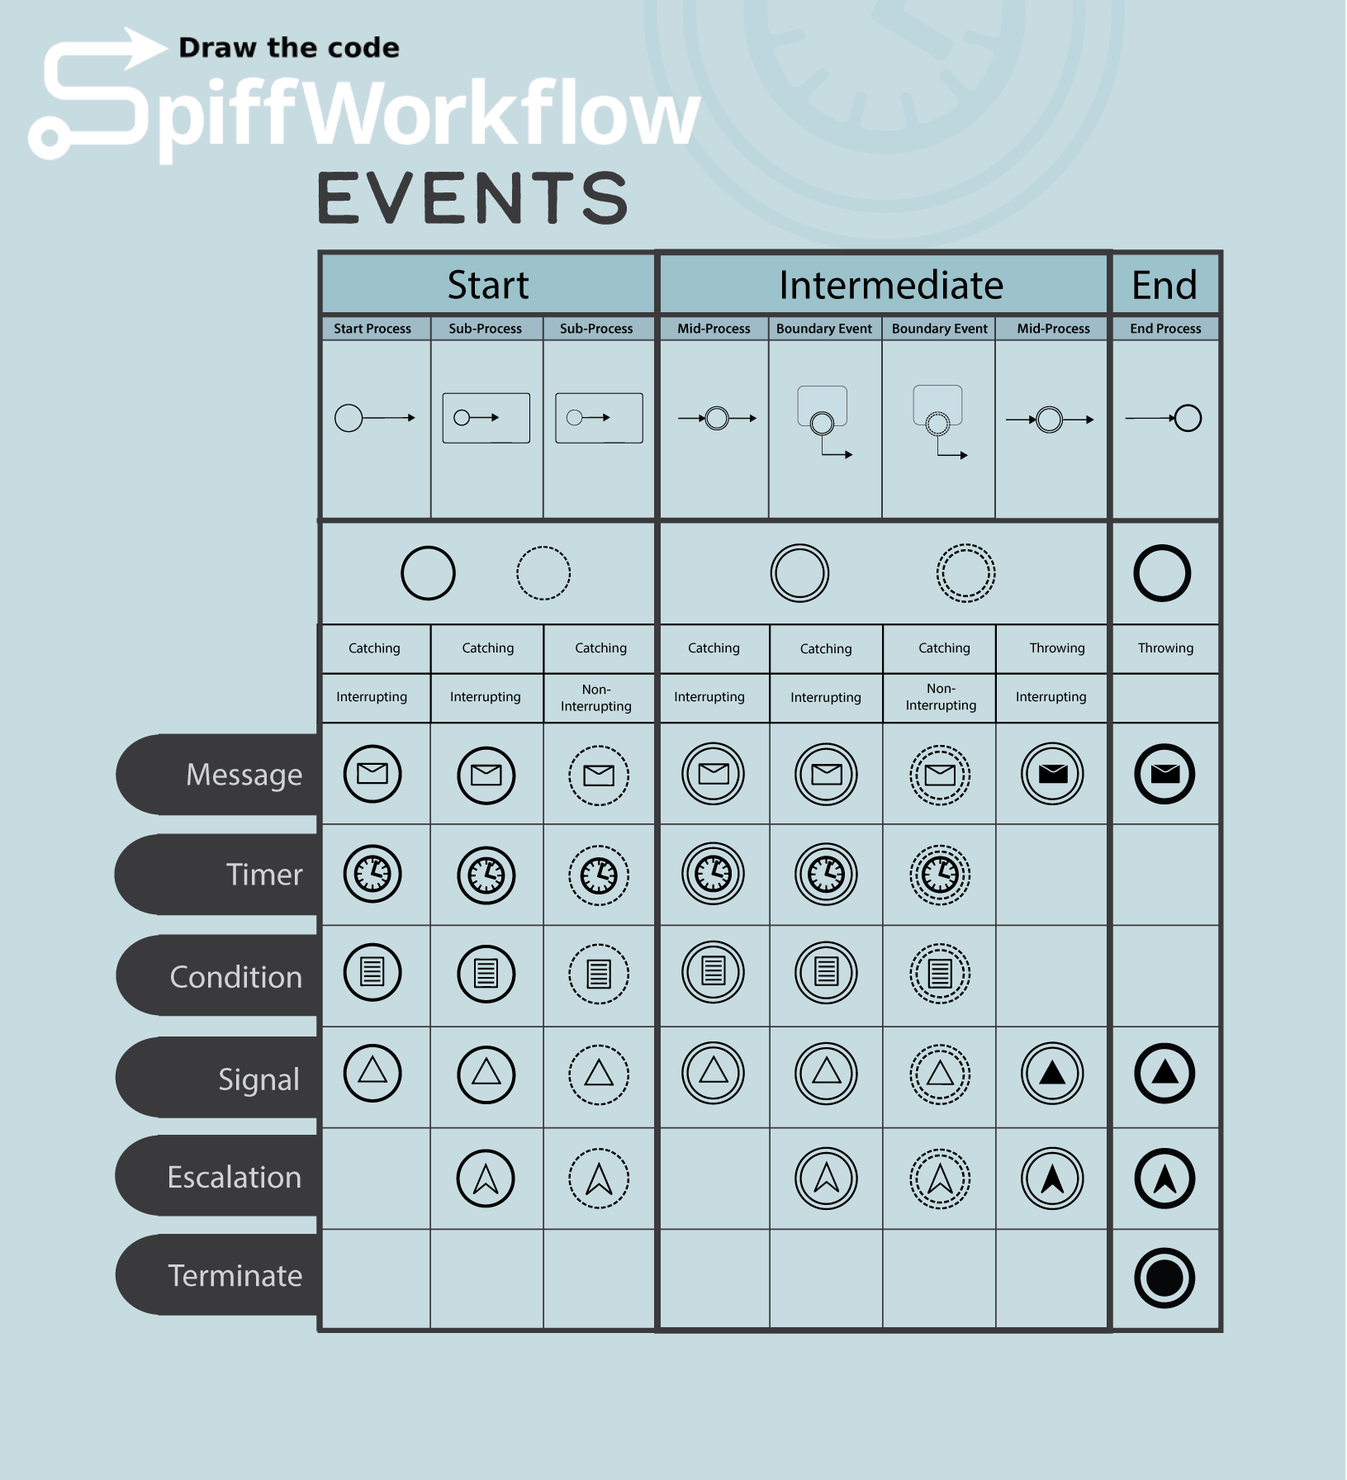
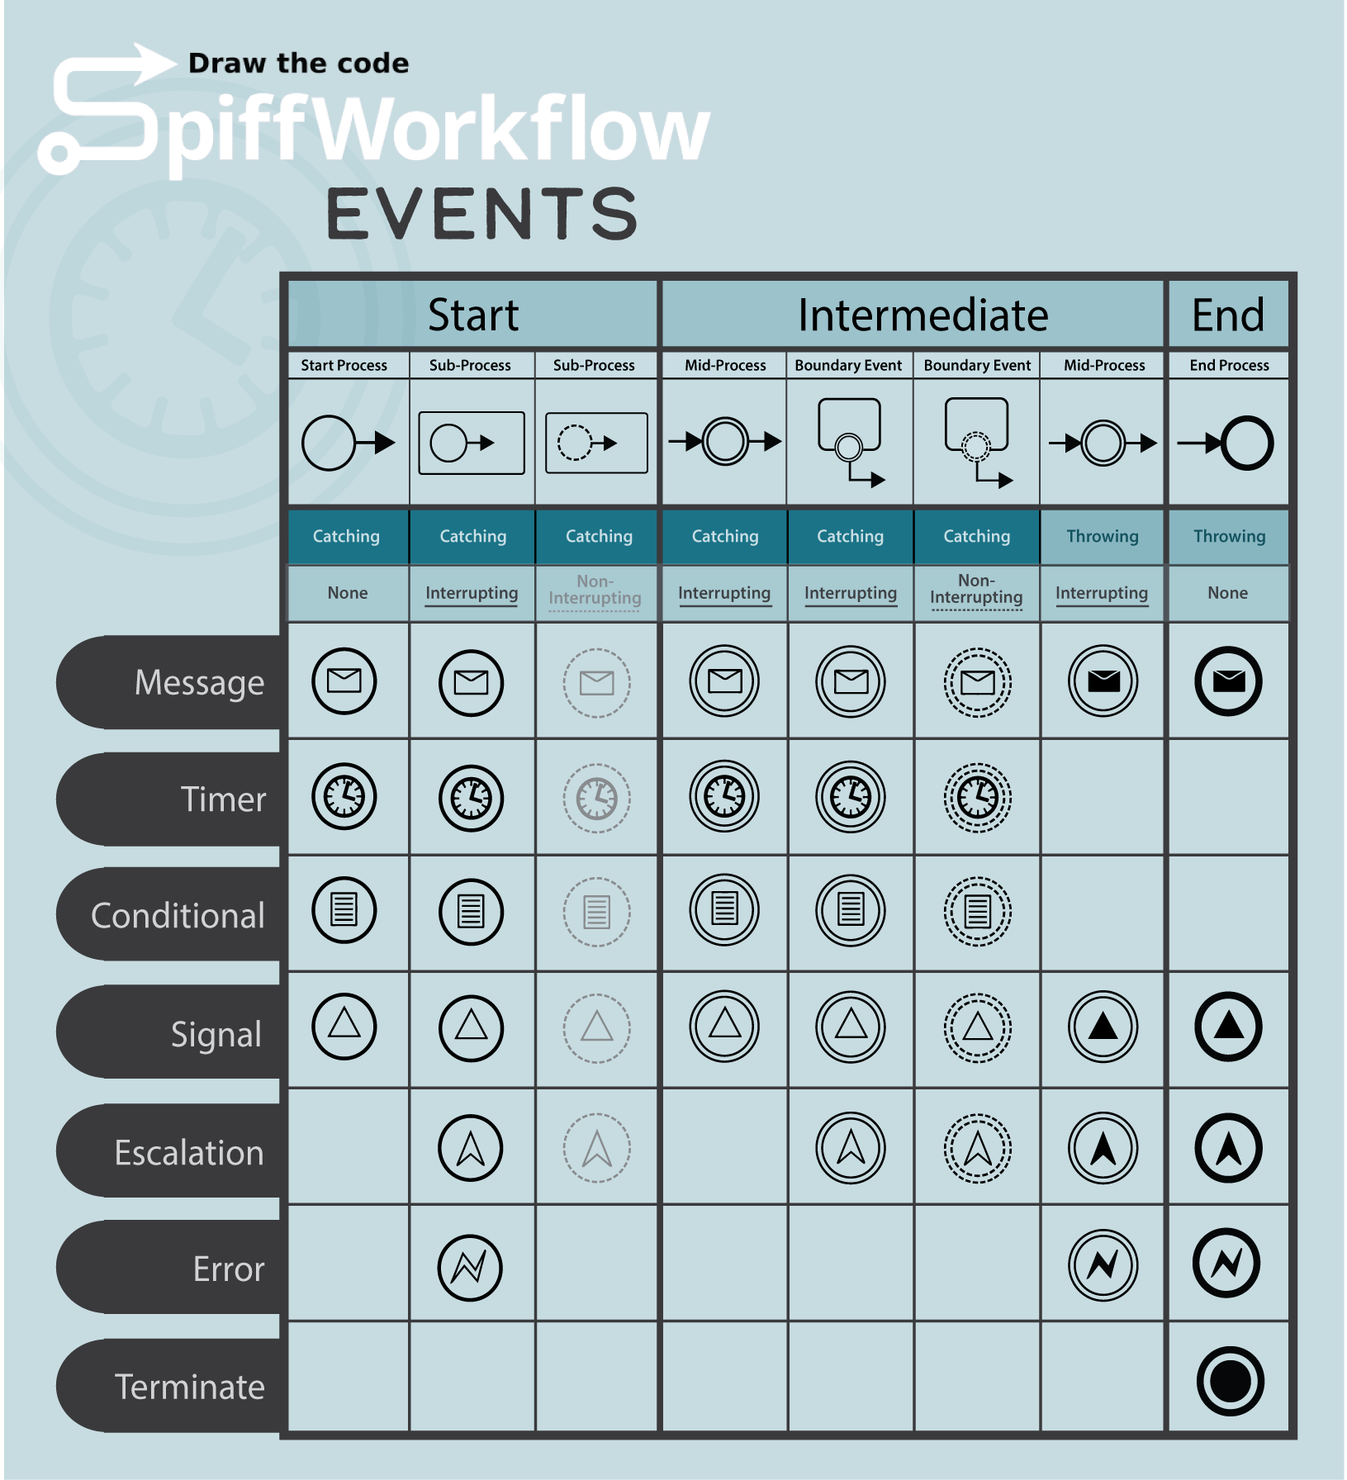
Condition, escalation,timer events

Changed region(s): [[0.0, 0.0, 0.981, 1.0]]

diff --git a/docs/Building_Diagrams/timer_events.md b/docs/Building_Diagrams/timer_events.md
@@ -1,0 +1,88 @@
+# Timer Event
+
+A Timer Event in BPMN is tied to the concept of time. It represents a specific moment or duration after which certain actions in a process are initiated or controlled. Using Timer Events ensures that processes can be designed to factor in time-based conditions, which are common in real-world scenarios. There are 3 specific types.
+
+**Specific Date/Time Trigger:** 
+A Timer Event can be set to activate on an exact date and time. This is like setting an alarm clock. When the clock hits the designated time, the Timer Event is triggered. For instance, a monthly system backup could be initiated using a Timer Event set for the first day of every month at 2:00 AM.
+
+- **2023-12-25T09:00:00Z** - This would set the timer to trigger at 9:00 AM (UTC) on December 25, 2023.
+- **2024-01-01T00:00:00-05:00** - This would set the timer to trigger at midnight (Eastern Time) on January 1, 2024, accounting for the time zone offset.
+
+**Duration-based Trigger:** This isn’t a fixed point in time but a period that is often defined in the format of 'PnYnMnDTnHnMnS', (where P indicates the period, T separates date and time elements, and Y, M, D, H, M, S represent years, months, days, hours, minutes, and seconds, respectively). It's analogous to using a stopwatch. Once the task or process starts, the Timer Event begins counting, and after the predefined duration (say, 48 hours), it activates. 
+An example scenario might be an e-commerce platform setting a Timer Event to automatically cancel unprocessed orders after 72 hours.
+
+- **PT72H** - Represents a period of 72 hours.
+- **P2D** - Equates to a period of two days.
+- **P3DT12H30M** - Corresponds to a period of three days, twelve hours, and thirty minutes.
+
+**Recurring Trigger:** Advanced uses of Timer Events can involve recurring time patterns, like activating a process every 8 hours for 3 cycles. This pattern-based time definition can manage repetitive tasks without needing individual Timer Events for each occurrence. The R denotes recurrence, followed by the number of recurrences, and PT8H is the duration of 8 hours.
+
+- **R3/PT8H** Every 8 hours for 3 cycles. 
+
+**Reasons to Use a Timer Event:**
+
+- A Timer Event is perfect for processes that have to wait for a specific period or set time before starting or progressing to the next step.
+- They allow processes to adapt and react based on time-sensitive conditions or deadlines.
+
+## Start Timer Event
+
+![start_signal_event](images/start_timer_event.png)![start_timer_example](images/non_interrupting_start_timer.png)
+
+A Start Timer Event marks the beginning of a process or sub-process, but only once a specified period has elapsed or at a predetermined time.
+
+**Example:**
+
+![start_timer_example](images/start_timer_example.png)
+
+**Timer Start Event:** Consider a company that sends out a newsletter on the first of every month. To achieve this, they could set up a 'Start Timer Event' named 'Monthly Newsletter Timer' with a cyclic timer to activate on the first day of each month. 
+
+**Timer Start Event (interrupting):** In a different setting, let's imagine an organization that allows proposal submissions but sets a deadline for a specified date. Here, a 'Start Timer Event' can be used to automatically close the proposal submission form after this date, ensuring no entries are accepted post-deadline. 
+
+**Timer Start Event (non-interrupting):**
+Taking a more customer-centric example, envision an online shopping platform. While a customer browses and adds items to the cart, they might get distracted and forget to check out. To address this, the platform can trigger a 'Non-Interrupting Timer Event' coupled with a subprocess. If the cart remains unattended for an hour, this timer triggers the subprocess, sending an email to the customer reminding them of their abandoned cart. The advantage is that it doesn't disrupt the customer's current session, providing a seamless experience.
+
+## Intermediate Timer Event
+
+![intermediate_timer_event](images/intermediate_timer_event.png) ![non_interrupting_intermediate_timer_event](images/non_interrupting_intermediate_timer_event.png)
+
+An Intermediate Timer Event acts as a pause or delay within the flow of a process. The process flow will only continue after the set time has been reached or elapsed. Furthermore, as a Boundary Event, it can be linked to specific tasks or sub-processes, potentially interrupting or delaying those tasks based on timing constraints.
+
+**Example:**
+
+![timer_intermediate_example_1](images/start_timer_example_1.png)
+
+**Timer Intermediate Catch Event:** 
+
+The intermediate timer event dictate the timing between stages of a process. For example, in the context of baking, once a cake is removed from the oven, it's essential to let it cool properly before decorating. This cooling phase ensures that the icing doesn't melt off the hot cake. To manage this, an 'Intermediate Timer Event' can be set, signaling a baking process to wait for a standard duration of two hours post-baking before decorating.
+
+Transitioning to a logistics scenario, let's consider a company that processes multiple orders throughout the day. They might spend hours collecting items, packaging, and preparing them for shipment. However, rather than dispatching each order individually, they follow a batch process strategy, consolidating all orders for a one-time dispatch. An 'Intermediate Timer Event' can be configured here to accumulate the day's orders and trigger a batch processing subprocess at a specific time, ensuring efficient and streamlined delivery operations.
+
+**Example:**
+
+![start_timer_example_2](images/start_timer_example_2.png)
+
+**Timer Boundary Event (interrupting):** 
+
+Imagine an online examination system where students have exactly 1 hour to complete the exam. A task labeled "Take Exam" will have a timer boundary event attached to it. If the exam isn't completed within 60 minutes, the timer boundary event activates, automatically submitting whatever has been completed by the student and ending the exam.
+
+On an e-commerce platform, a product is available at a flash sale price for just 24 hours. When customers add this item to their cart, a timer boundary event of 24 hours is set. If they don't purchase within this timeframe, the timer activates, removing the limited offering.
+
+**Timer Boundary Event (non-interrupting):** 
+
+A company prides itself on responding to customer support queries within 12 hours. When a new query is logged, a task named "Respond to Customer" is initiated. This task has a timer boundary event set for 12 hours. If the customer support team hasn't addressed the query within this time frame, the timer boundary event triggers a notification subprocess to alert the team lead or manager about the overdue response. Note that the original task is still active.
+
+**Best Modeling Practices:**
+
+![start_timer_example_3](images/start_timer_example_3.png)
+
+In process automation, ensuring all tasks and processes reach a definitive end is a fundamental aspect of good modeling practice. Abandoned or lingering tasks can strain resources and introduce inefficiencies. Timer events act as watchdogs, monitoring periods of inactivity and auto-terminating stagnant processes. Given the unpredictability of user behavior, integrating timer events is a proactive strategy to ensure no open instances remain.
+
+Looping based on time is also a possible use-case. For instance, a system might need to retry a failed task every three minutes until successful. Here, the Timer Event ensures that after every 3 minutes, the task is re-attempted. Just remember to have a mechanism in place to eventually break out of the loop after a certain number of retries or if another condition is met.
+
+## Timer Event Configuration
+
+| 💻 Form | ⌨ Field Input | 📝 Description |
+| --- | --- | --- |
+| ![name_field](images/name_field.png) | **Name:** Cancel Order | A descriptive name given to the element, providing a human-readable label or title. |
+| ![id_field](images/id_field.png) | **ID:** Example - cancel_order | An identifier used to uniquely identify the element within the BPMN model. |
+| ![timer_field](images/timer_field.png) | **Type:** Duration **Value:** PT48H | Choose the type of trigger you want to set: Specific Date/Time, Duration, or Cycle Trigger. |

diff --git a/docs/Building_Diagrams/escalation_events.md b/docs/Building_Diagrams/escalation_events.md
@@ -1,0 +1,80 @@
+# Escalation Event
+
+An Escalation Event in BPMN symbolizes a situation where an issue or condition within a process requires attention at a higher level or different domain. This event acts as a mechanism to raise awareness or invoke intervention. 
+
+```{admonition} Note
+⚠  Escalation Events are similar to signals; however, they differ in their application. An escalation represents a one-to-one relationship, whereas a signal event embodies a one-to-many relationship.
+```
+
+**Reasons to Use an Escalation Event:**
+
+- Are mostly used to communicate to a subprocess or an upper (parent) process.
+- They provide a structured way to handle exceptions, ensuring processes remain fluid despite interruptions.
+
+## Start Escalation Event
+
+![start_escalation_event](images/start_escalation_event.png)![non_interrupting_start_escalation_event](images/non_interrupting_start_escalation_event.png)
+
+A Start Escalation Event indicates the beginning of a sub-process, triggered explicitly by an escalation from another process or activity.
+
+```{admonition} Note
+⚠  Escalation Events are typically used in scenarios where standard process flow is disrupted, and involvement becomes essential for resolution. They are mostly used to communicate from a subprocess to an upper process.
+```
+
+**Example:**
+
+![start_escalation_example](images/start_escalation_example_1.png)
+
+**Escalation Start Event (interrupting):** 
+In a production environment, if a machine malfunctions frequently, or requires callibration, the issue might be escalated to a specialized technical team. This team then initiates a comprehensive diagnostic process to identify and fix the root cause.
+
+**Escalation Start Event (non-interrupting):** 
+After a customer's order is processed, a non-interrupting escalation event is triggered. This event sends a notification to the customer that their order is being prepared for shipment. The key feature of this event is that it is non-interrupting, which means the notification to the customer does not halt the process of moving the order to the shipping phase. It allows for parallel processing to allow the process to continue seamlessly to the next step.
+
+## Intermediate Escalation Event
+
+![intermediate_escalation_event](images/intermediate_escalation_throw_event.png) ![intermediate_escalation_event](images/intermediate_escalation_catch_event.png) ![intermediate_escalation_event](images/non_interripting_intermediate_escalation_event.png)
+
+An Intermediate Escalation Event serves as a mechanism within a process flow to raise an escalation. This could be due to an exception, a delay, or any condition that requires intervention. As a Boundary Event, it can also be associated with specific tasks or sub-processes, highlighting the need for escalation if certain criteria are met.
+
+**Example:**
+
+![escalation_intermediate_example_2](images/escalation_example_2.png)
+
+In the same BPMN scenario, escalations can be managed at a higher level in the process hierarchy through a boundary escalation event. This method involves placing the escalation event on the border of the parent process activity. 
+
+**Escalation Boundary Event (interrupting):** 
+When the machine manufacturing a part requires caliibration, it can be escalated to a parent process where a process is followed to notify or handle the alterate path by cathing the throw event (Escalation End Event) from its child process. 
+
+**Escalation Boundary Event (non-interrupting):** 
+The same can be done for our order processing scenario. A non-interrupting escalation event is caught by the parent process, alerting the customer that their order is ready for shipment. This boundary event operates in tandem with the core process, updating the customer in real-time while maintaining uninterrupted progression to shipping. This parallel processing ensures that there are two active instances within the workflow hierarchy, with one instance continuing the child process and the other managing customer communication on the parent level.
+
+```{admonition} Note
+⚠  A call process is generally employed for processes that can be repeated across different scenarios or use cases.
+```
+
+**Example:**
+
+![escalation_intermediate_example_2](images/escalation_example_3.png)
+
+**Escalation Boundary Event (interrupting):** 
+In the given scenario, utilizing a subprocess can lead to the desired outcome similarly. A gateway is used to assess whether a machine needs calibration. With only one potential result from this evaluation—calibration being necessary—the escalation event is captured at the boundary of the subprocess. In this case, since there is a single active process instance, the non-interrupting characteristic of the event does not impact the process's flow.
+
+**Escalation Boundary Event (non-interrupting):** 
+In a subsequent setup, a parallel gateway launches two simultaneous paths. While one path proceeds with the shipment as usual, the other leverages parallel processing to update the customer. The update is facilitated through a non-interrupting boundary event within a subprocess, which ensures the shipment process continues uninterrupted.
+
+```{admonition} Note
+⚠  The same end result was achieved by three different usescases for the escalation events. The choice of event type should be based on the particular application and context, as this will inform the most appropriate design decision for your process.
+```
+
+## End Escalation Event
+
+![intermediate_escalation_event](images/end_escalation_event.png) 
+
+In our earlier examples, we demonstrated how to use throw and catch events. The End Escalation event functions similarly to the Intermediate Throw Escalation event, with the key distinction being its occurrence at the end of a particular pathway. It's important to note that the End Escalation event doesn't always signify the termination of the entire process. Particularly in scenarios involving non-interrupting events, the process instance may continue independently even after the escalation event is triggered.
+
+**Example:**
+
+![escalation_intermediate_example_2](images/escalation_example_4.png)
+
+In this scenario, we observe an End Escalation following a Boundary Event. This thrown End Escalation can be intercepted by the boundary event of a Call Activity or at the start of a sub-process, as shown in previous examples on this page. In another example, we see an End Escalation event being thrown within a sub-process and caught at the sub-process's boundary. The application of the last example aligns with the first, where the escalation can be intercepted either on a Call Activity or at the beginning of a sub-process. It's crucial to remember that whether a process is created or terminated in these contexts depends on whether non-interrupting or interrupting events are utilized.

diff --git a/docs/Building_Diagrams/conditional_events.md b/docs/Building_Diagrams/conditional_events.md
@@ -1,0 +1,74 @@
+# Conditional Event
+
+A Conditional Event is a type of event that activates based on the evaluation of a condition, typically expressed as a Boolean expression (true or false). Conditional Events depend on the state or value of process variables that are part of the process context. They continuously evaluate the given condition and act when the condition is met.
+
+```{admonition} Note
+⚠  The variable(s) evaluated in the condition should typically be initialized with a default value, often set to false. This ensures it doesn't trigger prematurely. Thus, it remains evaluated as false until the specified condition turns true. Importantly, this variable needs to be accessible within the process context.
+```
+
+**Reasons to Use a Conditional Event:**
+
+- A Conditional Event is ideal for processes where decision-making is based on data or state changes.
+- They allow processes to adapt and respond dynamically to changing conditions within the system.
+
+## Start Conditional Event
+
+![start_signal_event](images/start_conditional_event.png)![start_signal_event](images/non_interrupting_conditional_start_event.png)
+
+A Start Conditional Event marks the beginning of a process or a sub-process, triggered when a specific condition is fulfilled, or in other terms, when the condition evaluates to true.
+
+
+**Example:**
+
+![conditional_start_example](images/conditional_start_example_1.png)
+
+**Conditional Start Event (interrupting):**
+In the first scenario, as a transaction is being processed, funds are withdrawn from a ledger. If this withdrawal results in a negative ledger balance, a certain condition is triggered, stopping the entire process. This is crucial because we can't proceed with a payment if there aren't sufficient funds.
+
+**Conditional Start Event (non-interrupting):**
+In the subsequent scenario, as an online order is placed by a customer, our inventory count gets adjusted. Should this count descend beneath a set threshold, an alert is activated, signaling the warehouse to replenish stocks. Our goal is to maintain an uninterrupted shopping experience for the customer, yet it's important to inform relevant staff when our inventory nears depletion.
+
+## Intermediate Conditional Event
+
+![intermediate_conditional_event](images/intermediate_conditional_event.png) ![intermediate_conditional_event](images/non_interrupting_intermediate_conditional_event.png)
+
+An Intermediate Conditional Event serves as a gate or checkpoint within the flow of a process. The process flow will proceed once the attached condition evaluates to true. Additionally, a Boundary Event can be associated with specific tasks or sub-processes, acting as an interrupter based on certain conditions. This ensures that certain actions are taken or the process is redirected when particular circumstances arise.
+
+**Example:**
+
+![conditional_intermediate_example_1](images/conditional_intermediate_example_1.png)
+
+**Conditional Intermediate Cath Event:** 
+Once an order is packed and ready for shipping, it doesn't necessarily imply immediate delivery. The delivery process hinges on the availability of a driver. If no driver is available at the moment, we must patiently await notification of one becoming available.
+
+In a bakery, pastries are made in bulk. However, they can only be put in the oven when it reaches the necessary temperature. While one might consider using a timer to gauge readiness (and it's not entirely wrong to do so), a timer only measures the elapsed time since activation. It can't determine the actual temperature inside the oven. Given that our pastries need a specific temperature for baking, only when this condition is met can we proceed to place them in the oven.
+
+**Example:**
+
+![conditional_intermediate_example_2](images/conditional_intermediate_example_2.png)
+
+**Conditional Boundary Event (interrupting):** 
+Boundary events allows us to redirect our processes based on shifts in certain conditions. It's wise to consider such a strategy since it's unrealistic to expect every process to proceed without hiccups. Therefore, planning for alternative pathways becomes essential.
+
+Imagine a user in the midst of completing a form suddenly opting to cancel the process. Or consider a scenario where a user is finalizing an order, only to find that due to a changed condition, the desired product is no longer available. In such cases, the interrupting event ensures we don't proceed on the originally planned course because the order will not be filfulled. Instead, we shift and use the alternative route to inform the user that the intended process can't progress further, we order more stock or we place the user on a list to be notified when product becomes available again.
+
+**Conditional Boundary Event (non-interrupting):** 
+It's also beneficial in scenarios where there's no need to disrupt the initial workflow, like when receiving a change request. The task still requires completion, but there's an additional remark or modification we must be mindful of.
+
+**Best Modeling Practices:**
+
+![conditional_intermediate_example_3](images/conditional_intermediate_example_3.png)
+
+When utilizing a condition to loop back to a previous stage, it's crucial to highlight that the condition should be reset to evaluate as false once again. If not adjusted, the condition might activate immediately when the instance revisits the task, potentially causing an infinite loop. Always revert the condition to its default state to ensure appropriate behavior.
+
+## Conditional Event Configuration
+
+| 💻 Form | ⌨ Field Input | 📝 Description |
+| --- | --- | --- |
+| ![name_field](images/name_field.png) | **Name:** Request Assistance | A descriptive name given to the element, providing a human-readable label or title. |
+| ![id_field](images/id_field.png) | **ID:** Example - request_assistance | An identifier used to uniquely identify the element within the BPMN model. |
+| ![configure_conditional_event](images/configure_conditional_event.png) | **Conditional Expression:** request_assistance == true | Set the expression that needs to be evaluated to take action. |
+
+```{admonition} Note
+⚠  When configuring the conditional expression, ensure there's such a variable in your process context.
+```

diff --git a/docs/index.md b/docs/index.md
@@ -17,6 +17,9 @@ Building_Diagrams/gateways.md
 Building_Diagrams/events.md
 Building_Diagrams/message_events.md
 Building_Diagrams/signal_events.md
+Building_Diagrams/timer_events.md
+Building_Diagrams/escalation_events.md
+Building_Diagrams/conditional_events.md
 Building_Diagrams/Displaying_Content.md
 Building_Diagrams/Script_Tasks.md
 Building_Diagrams/sub-processes_and_call_activities.md
